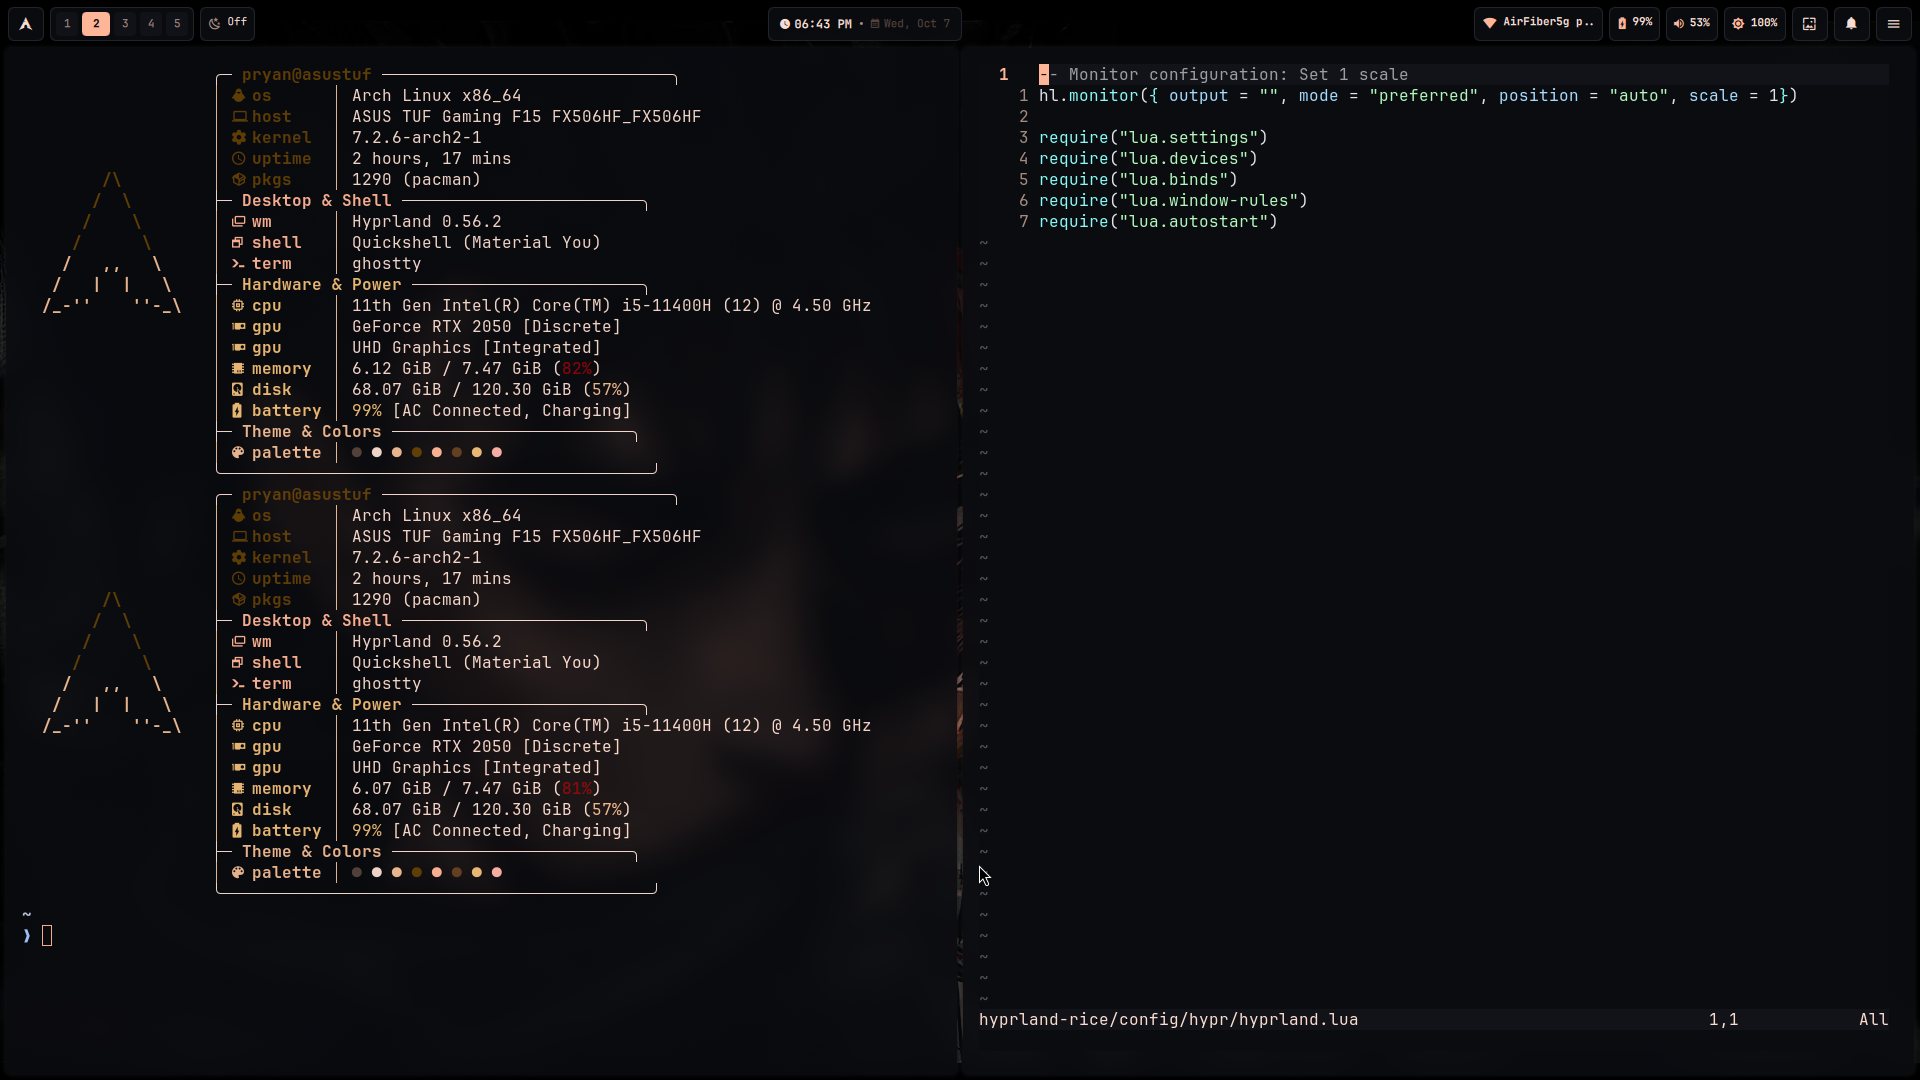
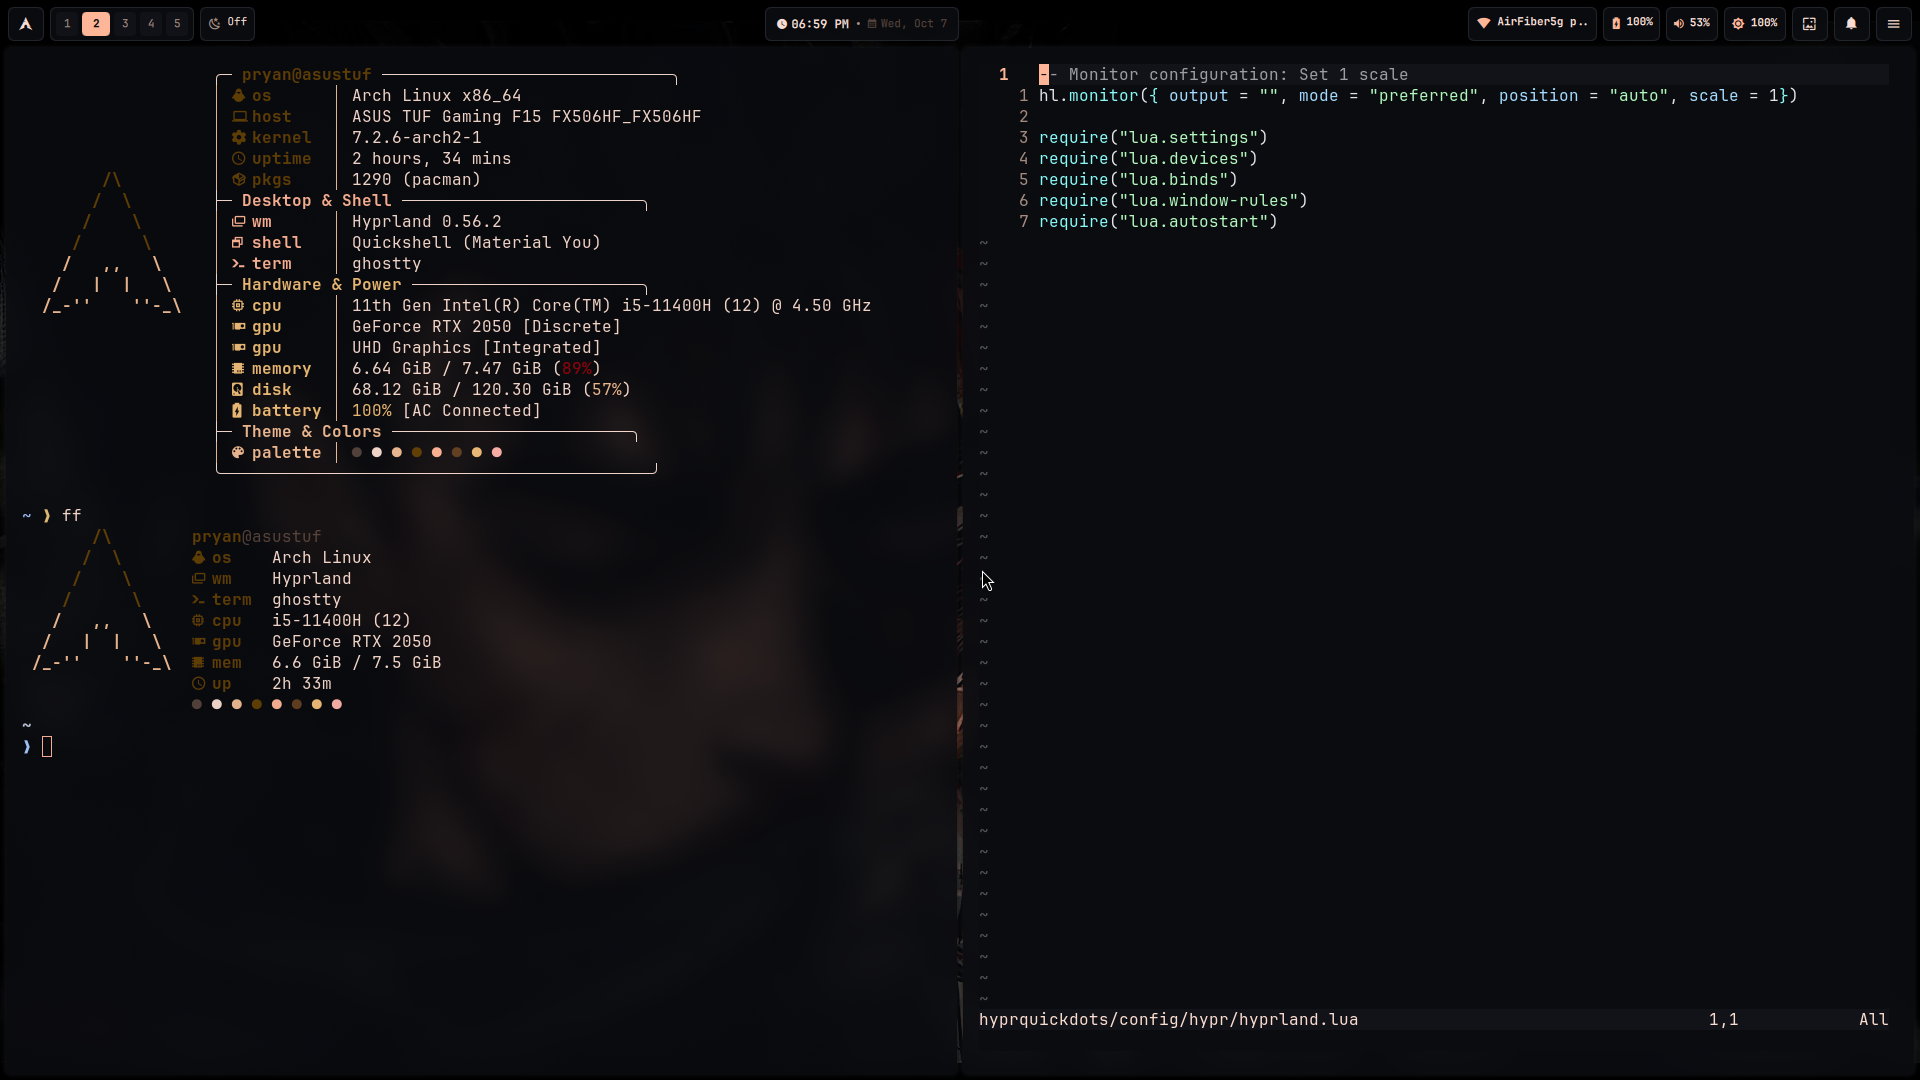
feat(branding): rename project to hyprquickdots, update media with single fastfetch + ff

diff --git a/README.md b/README.md
@@ -1,7 +1,7 @@
 <div align="center">
 
-# ✦ Hyprland Material You Rice ✦
-### Native Hyprland Lua  •  Pure Quickshell Desktop  •  Dynamic Palette Generation
+# ✦ hyprquickdots ✦
+### Native Hyprland Lua • Pure Quickshell Desktop • Dynamic Material You
 
 [![Arch Linux](https://img.shields.io/badge/OS-Arch_Linux-1793d1?style=for-the-badge&logo=arch-linux&logoColor=white)](https://archlinux.org)
 [![Hyprland](https://img.shields.io/badge/WM-Hyprland_Lua-00c853?style=for-the-badge&logo=hyprland&logoColor=white)](https://hyprland.org)
@@ -124,8 +124,8 @@
 
 ### 1. Clone the Repository
 ```bash
-git clone https://github.com/devpryan7792/hyprland-rice.git ~/hyprland-rice
-cd ~/hyprland-rice
+git clone https://github.com/devpryan7792/hyprquickdots.git ~/hyprquickdots
+cd ~/hyprquickdots
 ```
 
 ### 2. Run the Turnkey Installer
@@ -144,7 +144,7 @@ The installer will:
 1. Detect Arch Linux, GPU hardware (Nvidia/AMD/Intel), and laptop battery status.
 2. Check for or install an AUR helper (`yay` / `paru`).
 3. Install required official and AUR packages (`hyprland`, `quickshell`, `matugen`, `awww`, `ghostty`, fonts, audio, portals).
-4. Safely back up existing configurations to `~/.config/hyprland-rice-backup-<timestamp>`.
+4. Safely back up existing configurations to `~/.config/hyprquickdots-backup-<timestamp>`.
 5. Deploy dotfiles and scripts with proper executable permissions.
 6. Clone essential Zsh plugins (`fzf-tab`, `zsh-autosuggestions`, `zsh-syntax-highlighting`).
 7. Deploy curated wallpapers and generate the initial Material You color palette.
@@ -155,7 +155,7 @@ The installer will:
 
 To cleanly remove the rice configurations or restore your previous desktop setup:
 ```bash
-cd ~/hyprland-rice
+cd ~/hyprquickdots
 ./uninstall.sh
 ```
 If an installation backup exists, `uninstall.sh` will prompt to automatically restore your original dotfiles.

diff --git a/REDDIT_POST.md b/REDDIT_POST.md
@@ -42,7 +42,7 @@ Packaged my daily driver setup! Built around native Hyprland Lua, a unified Quic
 - **Fetch**: [Fastfetch](https://github.com/fastfetch-cli/fastfetch)
 - **Font**: JetBrainsMono Nerd Font
 - **Wallpaper Daemon**: `awww`
-- **Dotfiles & Turnkey Installer**: [GitHub Repository](https://github.com/devpryan7792/hyprland-rice)
+- **Dotfiles & Turnkey Installer**: [GitHub Repository](https://github.com/devpryan7792/hyprquickdots)
 
 ### Key Features:
 - **Unified Quickshell DE**: Custom Qt6 QML desktop including an animated top bar, spotlight launcher (`SUPER + Space`), control center dashboard (`SUPER + N`), keybindings cheatsheet (`SUPER + /`), and wallpaper studio (`SUPER + W`).
@@ -55,6 +55,6 @@ Packaged my daily driver setup! Built around native Hyprland Lua, a unified Quic
 ## 🚀 Pre-Post Checklist
 - [x] Tested dotfiles with live symlinks in `~/.config`.
 - [x] Generated media assets without Antigravity IDE in view.
-- [x] Push repository to GitHub (`devpryan7792/hyprland-rice`).
+- [x] Push repository to GitHub (`devpryan7792/hyprquickdots`).
 - [ ] Create post on r/unixporn with the images above.
 - [ ] Immediately paste the details comment above as the top-level comment (r/unixporn automod removes posts without a details comment within 1 hour).
